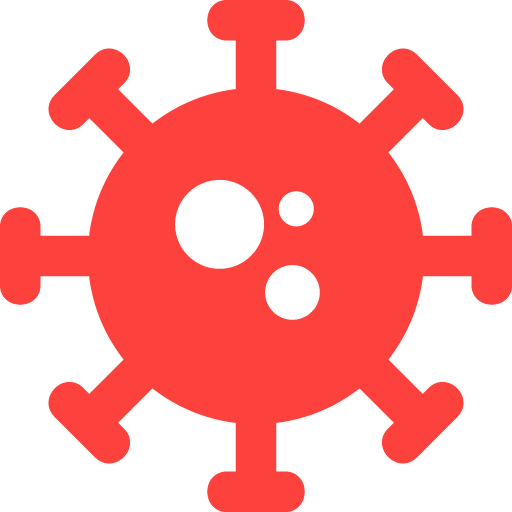
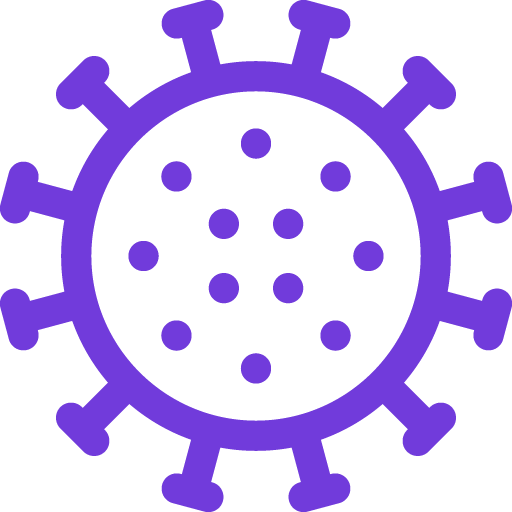
Update brand

diff --git a/layouts/default.vue b/layouts/default.vue
@@ -2,7 +2,10 @@
   <div>
     <b-navbar wrapper-class="container" type="is-light" :fixed-top="true">
       <template slot="brand">
-        <b-navbar-item tag="router-link" to="/">COVIDPH.LIVE</b-navbar-item>
+        <b-navbar-item class="brand" tag="router-link" to="/">
+          <img src="/icon.png" alt="Covidphlive" />
+          <span>COVIDPH</span>
+        </b-navbar-item>
       </template>
       <template slot="start">
         <b-navbar-item tag="router-link" to="/">Home</b-navbar-item>

diff --git a/assets/_general.scss b/assets/_general.scss
@@ -49,6 +49,12 @@ a {
     box-shadow: none;
   }
 
+  .brand {
+    img {
+      margin-right: 0.4rem;
+    }
+  }
+
   .navbar-brand {
     font-weight: 700;
     margin-left: 0 !important;
